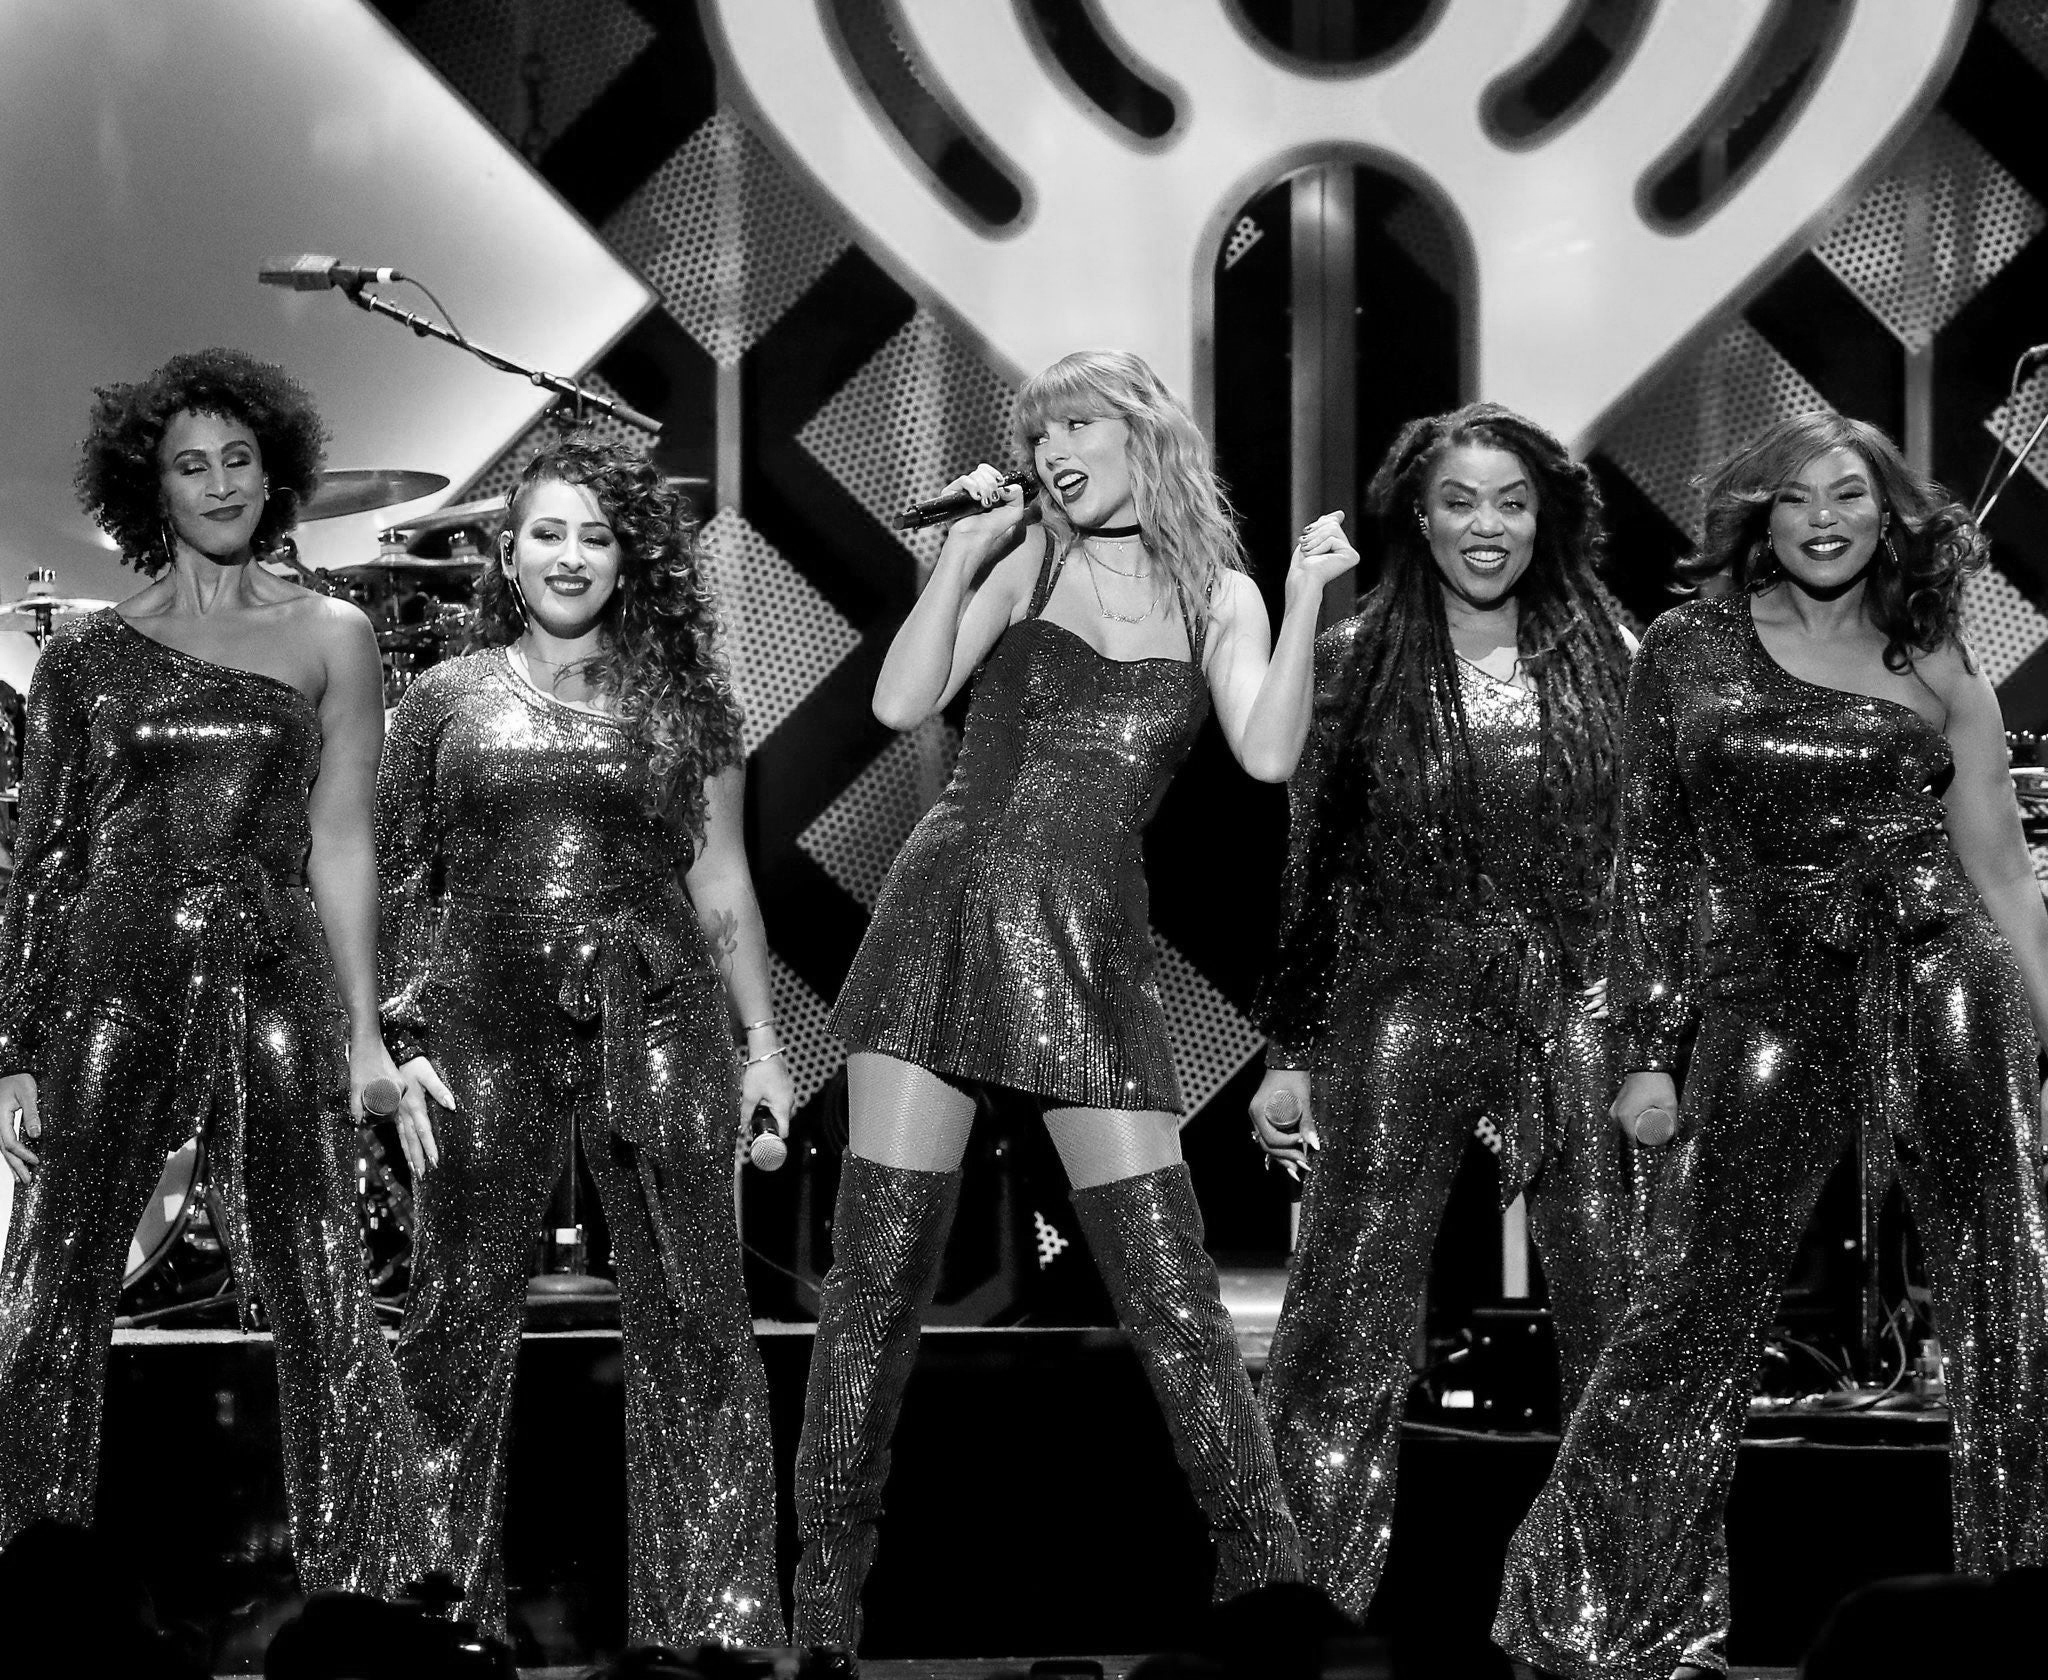
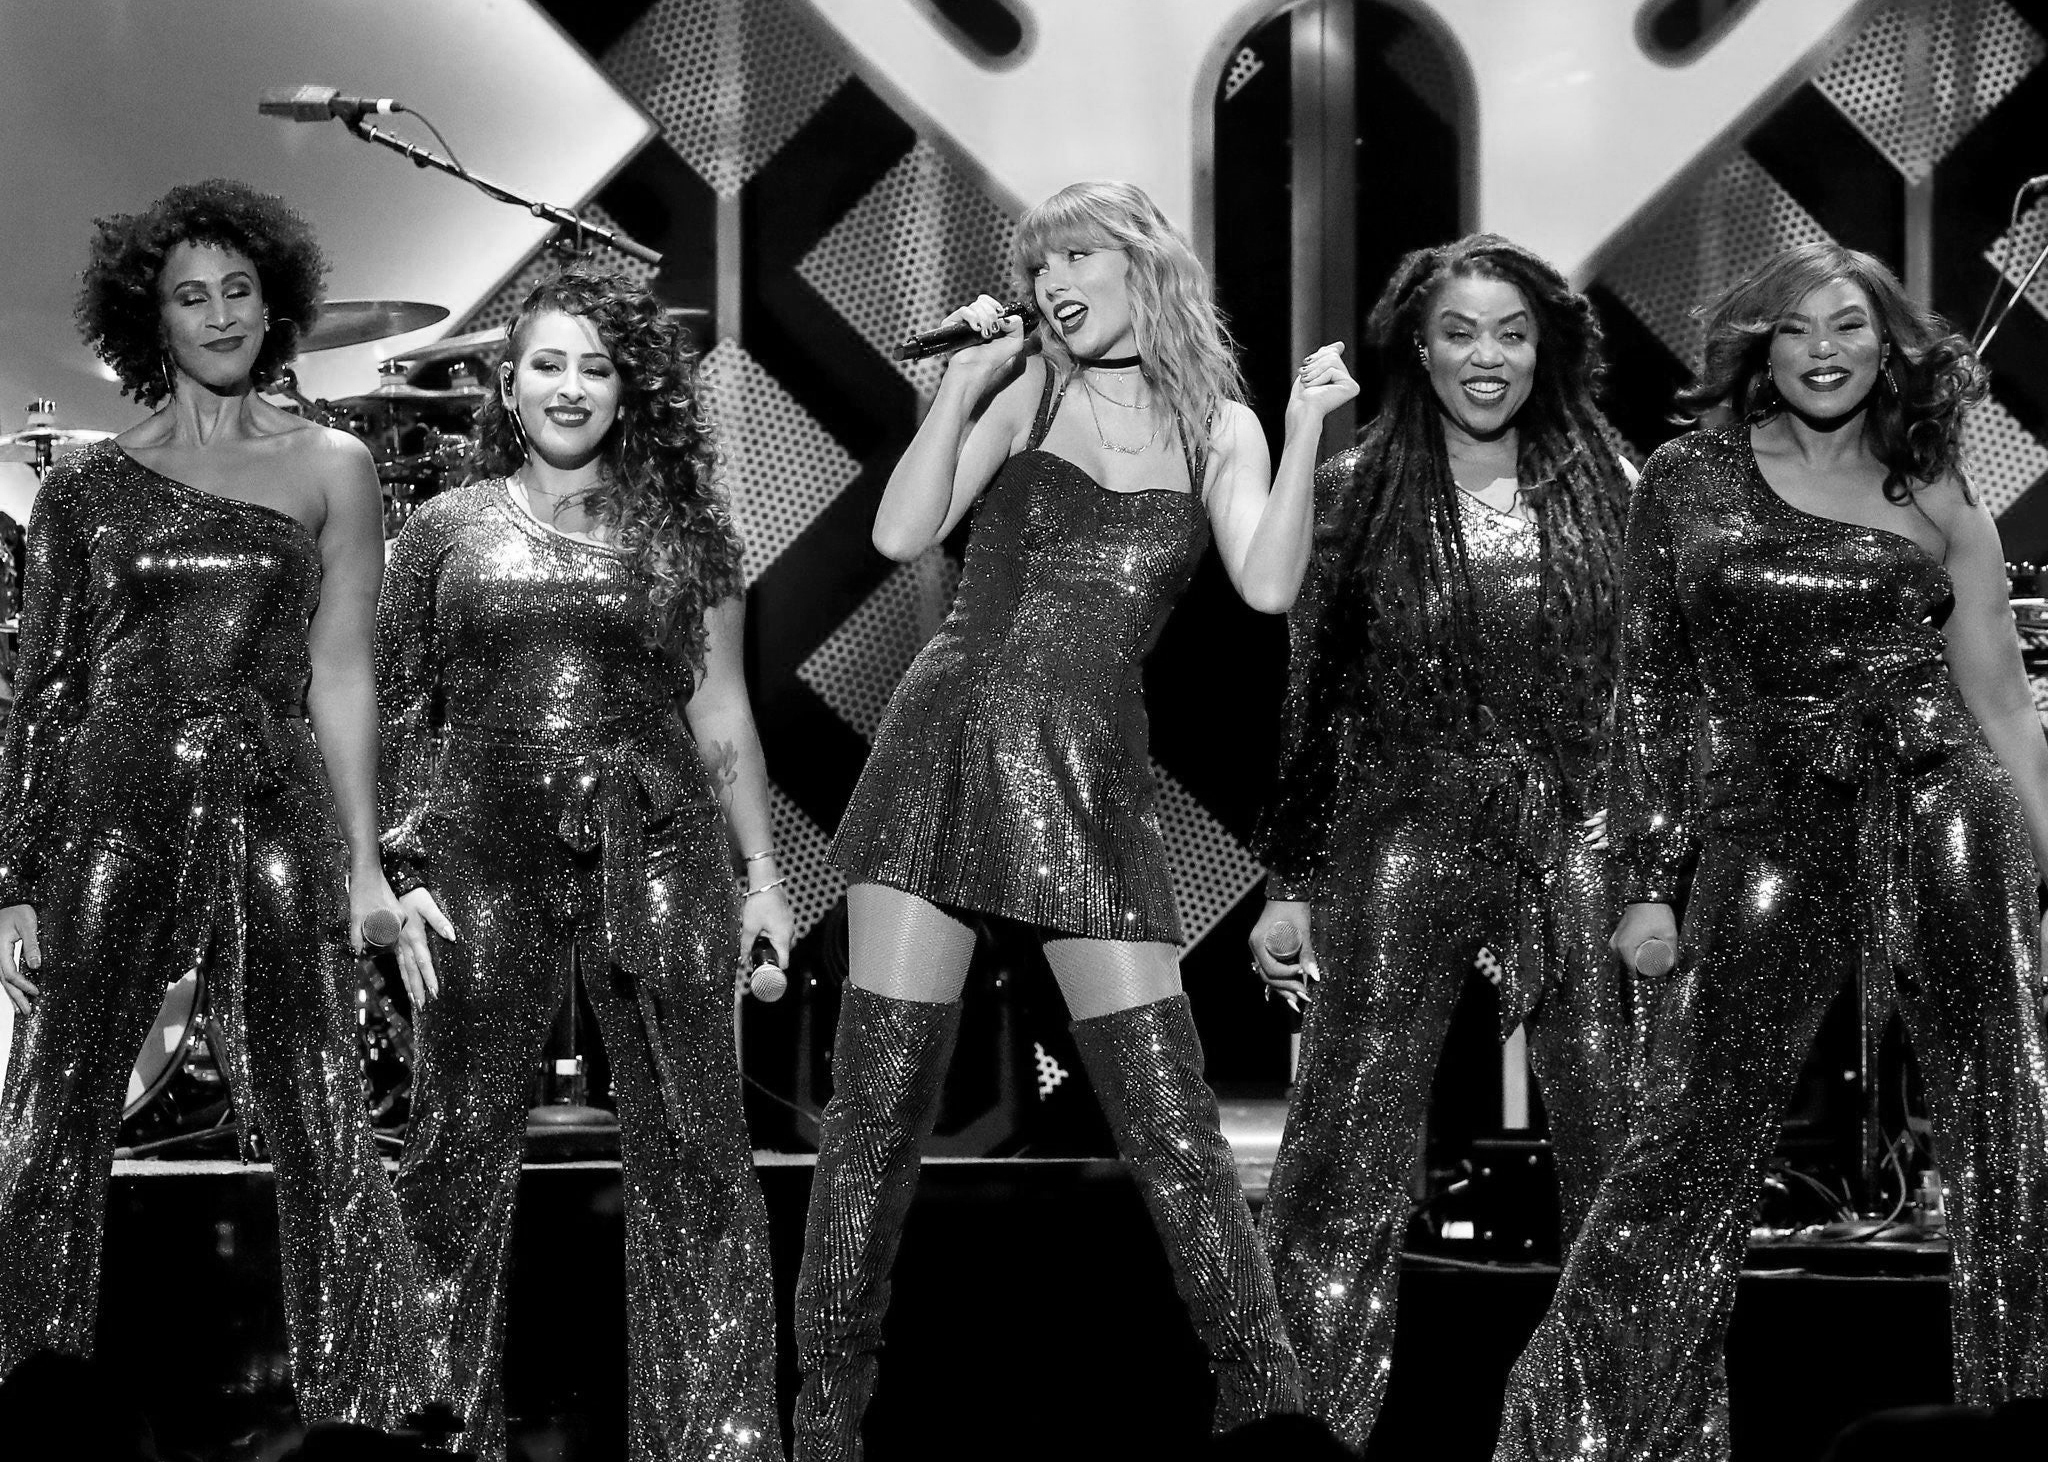
commit responsive band page

diff --git a/band-page.html b/band-page.html
@@ -38,16 +38,14 @@
   <p class="header">MEET THE BAND</p>
 
   <div class="row">
-    <div class="col s12 l7"><img src="img/taylors-band.jpeg" alt="The Band"></div>
+    <div class="col s12 l7"><img class="custom-image" src="img/taylors-band.jpeg" alt="The Band"></div>
       <div class="col s12 l5">
-        <p class="band-text">As Taylor Swift’s fame and popularity grew, she needed other musicians to play live with her at shows. Over the years members have come and gone, but these are the current musicians that accompany her.</p>
-        <p class="band-text">They go by “The Agency” because of the characters that they were playing in one of Taylor’s first music videos, “Picture to Burn,” where they were dressed up like secret agents.</p>
+        <h3>The Agency</h3>
+        <p class="band-text-custom">As Taylor Swift’s fame and popularity grew, she needed other musicians to play live with her at shows. Over the years members have come and gone, but these are the current musicians that accompany her.</p>
+        <p class="band-text-custom">They go by “The Agency” because of the characters that they were playing in one of Taylor’s first music videos, “Picture to Burn,” where they were dressed up like secret agents.</p>
       </div>
   </div>
-  <br>
-  <br>
-  <br>
-  <br>
+
 
   <div class="row">
     <div class="col s12 l3"><img src="img/amos-j-heller.jpg" alt="Amos J Heller"></div>
@@ -95,21 +93,15 @@
         <p class="band-text"><a href="https://twitter.com/max_e_bernstein">@max_e_bernstein</a></p>
       </div>
   </div>
-  <br>
-  <br>
-  <br>
-  <br>
 
   <div class="row">
-    <div class="col s12 l7"><img src="img/the-starlights-ts.jpg" alt="the-starlights"></div>
+    <div class="col s12 l7"><img class="custom-image" src="img/the-starlights-ts.jpg" alt="the-starlights"></div>
       <div class="col s12 l5">
-        <p class="band-text">“The Starlights” are Taylor’s back-up singers that have been with her since she released her album “Red.” Some members have come and gone, but these are the current “Starlights.” “The fearsome foursome” not only do background vocals, they also have a choreography for each performance, making them both band members and dancers.</p>
+        <h3>The Starlights</h3>
+        <p class="band-text-custom">“The Starlights” are Taylor’s back-up singers that have been with her since she released her album “Red.” Some members have come and gone, but these are the current “Starlights.” “The fearsome foursome” not only do background vocals, they also have a choreography for each performance, making them both band members and dancers.</p>
       </div>
   </div>
-  <br>
-  <br>
-  <br>
-  <br>
+
 
   <div class="row">
     <div class="col s12 l3"><img src="img/jeslyn-gorman.jpg" alt="jeslyn-gorman"></div>
@@ -140,13 +132,18 @@
         <p class="band-text"><a href="https://twitter.com/melanienyema">@melanienyema</a></p>
       </div>
   </div>
+  <br>
+  <br>
 
-  
-
-
-
-
-
+  <footer class="page-footer">
+    <h5 class="white-text">WE’VE GOT A BLANK SPACE AND WE WANT TO WRITE YOUR NAME</h5>
+    <p class="grey-text text-lighten-4 sign-up">SIGN UP TO STAY CONNECTED</p>
+    <div class="input-field col s12 l5">
+      <input id="email" type="email" class="validate">
+        <label for="email">Email</label>
+        <button class="btn waves-effect waves-light" type="submit" name="action">SUBMIT</button>
+    </div>  
+  </footer>
 
   <!--Compiled and minifed jQuery -->
   <script type="text/javascript" src="https://code.jquery.com/jquery-3.2.1.min.js"></script>

diff --git a/css/style.css b/css/style.css
@@ -168,6 +168,7 @@ nav ul a{
     color: #D7D4C6;
     width: 40%;
     display: flex;
+    align-items:center;
     /* padding-right: 20px; */
 }
 .btn {
@@ -264,12 +265,26 @@ h1 {
     text-align: left !important;
     font-size: 20px !important; 
 }
+.band-text-custom{
+    text-align: left !important;
+    font-size: 22px !important; 
+    font-family:'Amethsyta', serif !important;
+    width: 330px !important;
+}
+h3 {
+    font-family:'Alumni Sans', sans-serif;
+    padding-top: 0px; 
+    font-weight: 700;
+}
 .band-text a {
     color: #000000; 
     font-weight: 550;
 }
 .band-text b {
     font-size: 27px;
+}
+.col {
+    width: 500px;
 }
 .collapsible-header {
     font-family:'Alumni Sans', sans-serif;
@@ -279,7 +294,9 @@ h1 {
     background-color: #A4141D;
     color:#ffffff;
 }
-
+.custom-image{
+    width: 750px !important;
+}
 
 @media only screen and (max-width: 750px) {
 
@@ -349,9 +366,19 @@ h1 {
 }
 .page-footer {
     background-color: #A4141D;
+    padding-left: 25px;
 }
-
-
+.input-field {
+    width: 350px;
+}
+#email {
+    width: 60vw;
+    padding: 0;
+}
+.label {
+    /* width: 60px; */
+    width: 100vw;
+}
 .white-text {
     font-family:'Alumni Sans', sans-serif;
     color:#D7D4C6;
@@ -398,8 +425,43 @@ h1 {
 h1 {
     padding-left: 10px;
 }
+.custom-image{
+    width: 300px !important;
+    padding-bottom: 15px !important;
+}
 
+.row {
+    align-items: center;
+    text-align: center;
+    padding-left: 0px;
+}
+h3 {
+    text-align: center;
+}
+p.band-text-custom{
+    text-align: center;
+    width: 340px !important;
+    padding-left: 27px;
+    padding-bottom: 20px;
+    font-size: 20px !important;
+}
+p.band-text{
+    padding-bottom: 0px;
+    padding-top: 0px;
+    padding-left: 27px;
 
+}
+
+p.band-text.a {
+    padding-bottom: 45px !important;
+    padding-top: 0px;
+}
+
+.col img{
+    width: 310px;
+    padding-bottom: 10px;
+    padding-top: 35px;
+}
 }
 
 

diff --git a/tour.html b/tour.html
@@ -47,6 +47,16 @@
       <p class="tour-sm">Please check back later</p>
       <p class="tour-sm"><i>Check out Taylor’s last live performance of “All Too Well (10 Minute Version)" on SNL <a href="https://www.youtube.com/watch?v=nJr_8l0AEWE"><b>here</b></a></i></p>
 
+    <footer class="page-footer">
+      <h5 class="white-text">WE’VE GOT A BLANK SPACE AND WE WANT TO WRITE YOUR NAME</h5>
+      <p class="grey-text text-lighten-4 sign-up">SIGN UP TO STAY CONNECTED</p>
+      <div class="input-field col s12 l5">
+        <input id="email" type="email" class="validate">
+          <label for="email">Email</label>
+          <button class="btn waves-effect waves-light" type="submit" name="action">SUBMIT</button>
+      </div>  
+    </footer>  
+
 
 
 

diff --git a/about.html b/about.html
@@ -59,6 +59,15 @@
 
     <a class="band-link" href="/band-page.html"><p>meet the rest of Taylor’s band here</p></a>
 
+    <footer class="page-footer">
+      <h5 class="white-text">WE’VE GOT A BLANK SPACE AND WE WANT TO WRITE YOUR NAME</h5>
+      <p class="grey-text text-lighten-4 sign-up">SIGN UP TO STAY CONNECTED</p>
+      <div class="input-field col s12 l5">
+        <input id="email" type="email" class="validate">
+          <label for="email">Email</label>
+          <button class="btn waves-effect waves-light" type="submit" name="action">SUBMIT</button>
+      </div>  
+    </footer>
 
     <!--Compiled and minifed jQuery -->
   <script type="text/javascript" src="https://code.jquery.com/jquery-3.2.1.min.js"></script>

diff --git a/discography.html b/discography.html
@@ -392,13 +392,15 @@
             </div>
         </div>
 
-        
-
-
-
-
-
-
+    <footer class="page-footer">
+        <h5 class="white-text">WE’VE GOT A BLANK SPACE AND WE WANT TO WRITE YOUR NAME</h5>
+        <p class="grey-text text-lighten-4 sign-up">SIGN UP TO STAY CONNECTED</p>
+        <div class="input-field col s12 l5">
+            <input id="email" type="email" class="validate">
+            <label for="email">Email</label>
+            <button class="btn waves-effect waves-light" type="submit" name="action">SUBMIT</button>
+        </div>  
+    </footer>    
 
 <!--Compiled and minifed jQuery -->
 <script type="text/javascript" src="https://code.jquery.com/jquery-3.2.1.min.js"></script>

diff --git a/video.html b/video.html
@@ -456,6 +456,16 @@
         </div>
     </div> -->
 
+    <footer class="page-footer">
+        <h5 class="white-text">WE’VE GOT A BLANK SPACE AND WE WANT TO WRITE YOUR NAME</h5>
+        <p class="grey-text text-lighten-4 sign-up">SIGN UP TO STAY CONNECTED</p>
+        <div class="input-field col s12 l5">
+          <input id="email" type="email" class="validate">
+            <label for="email">Email</label>
+            <button class="btn waves-effect waves-light" type="submit" name="action">SUBMIT</button>
+        </div>  
+    </footer>
+
 
 <!--Compiled and minifed jQuery -->
 <script type="text/javascript" src="https://code.jquery.com/jquery-3.2.1.min.js"></script>
